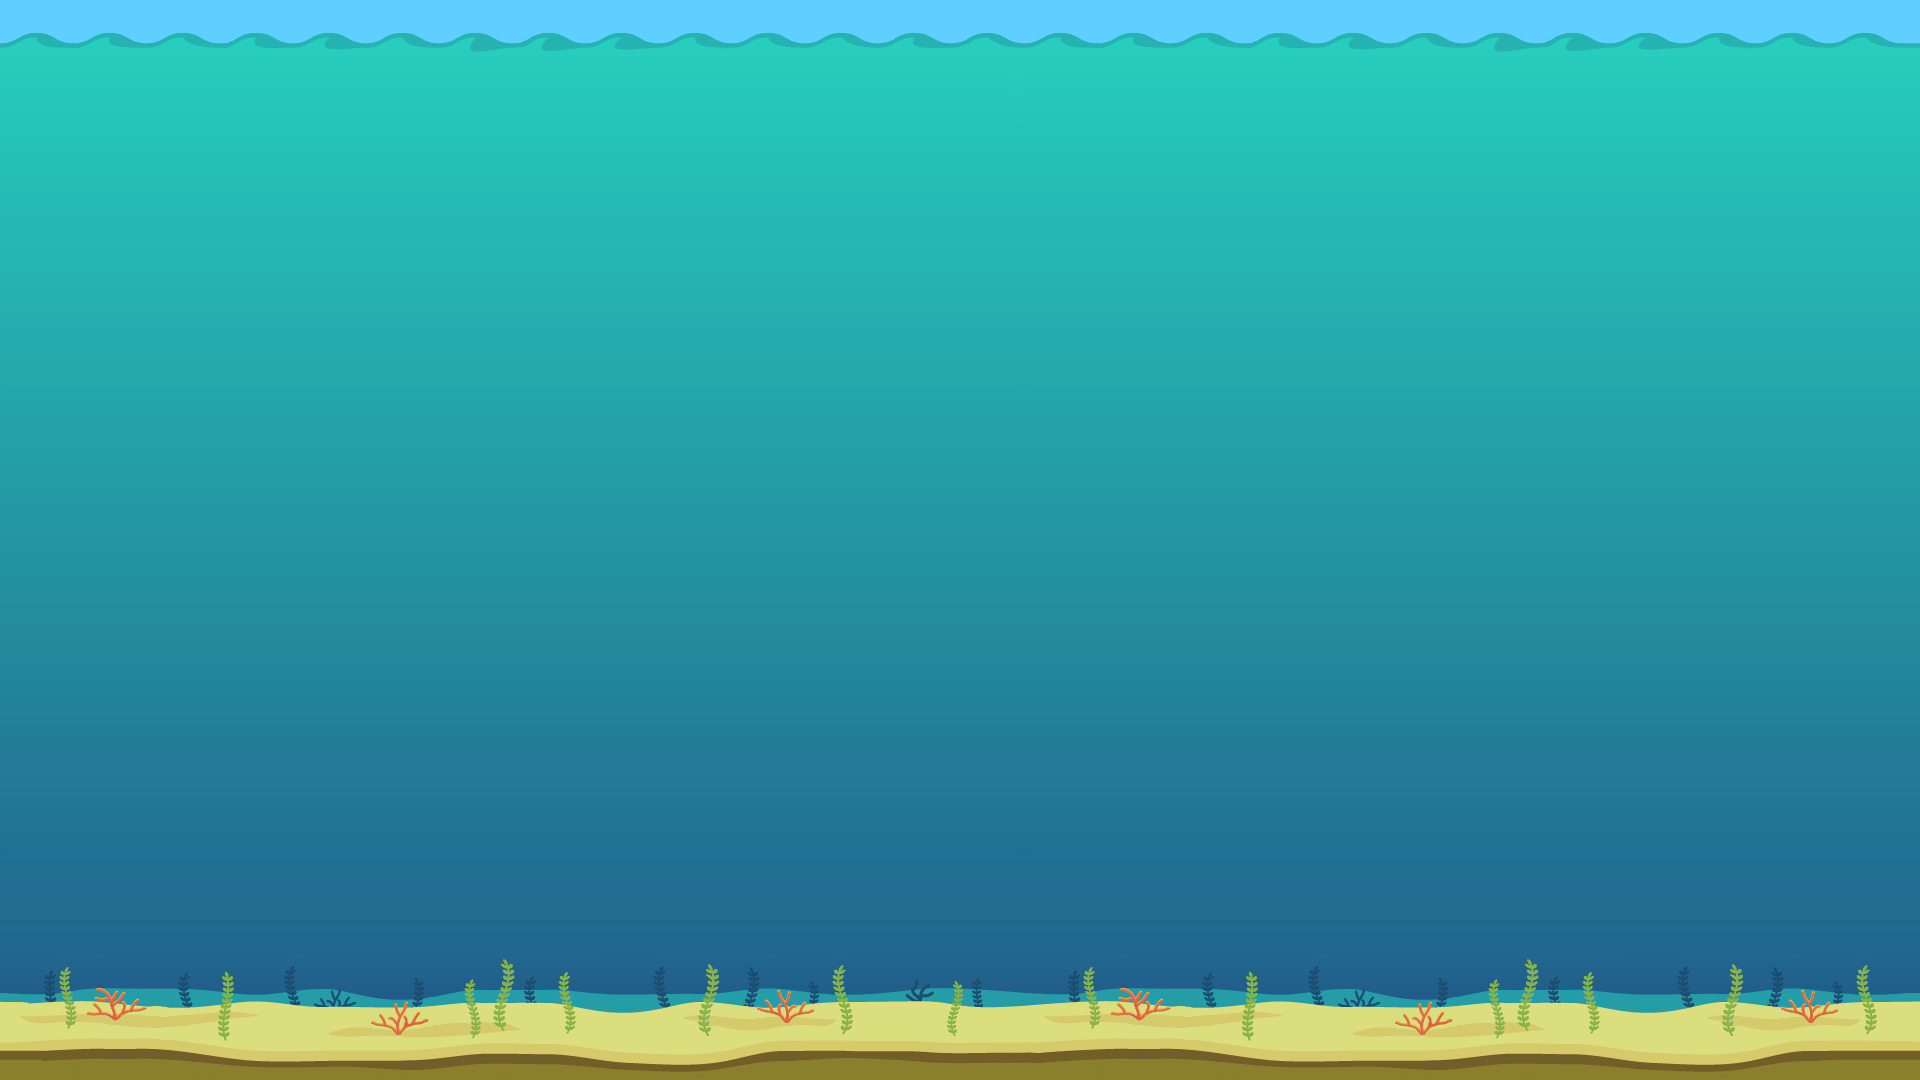
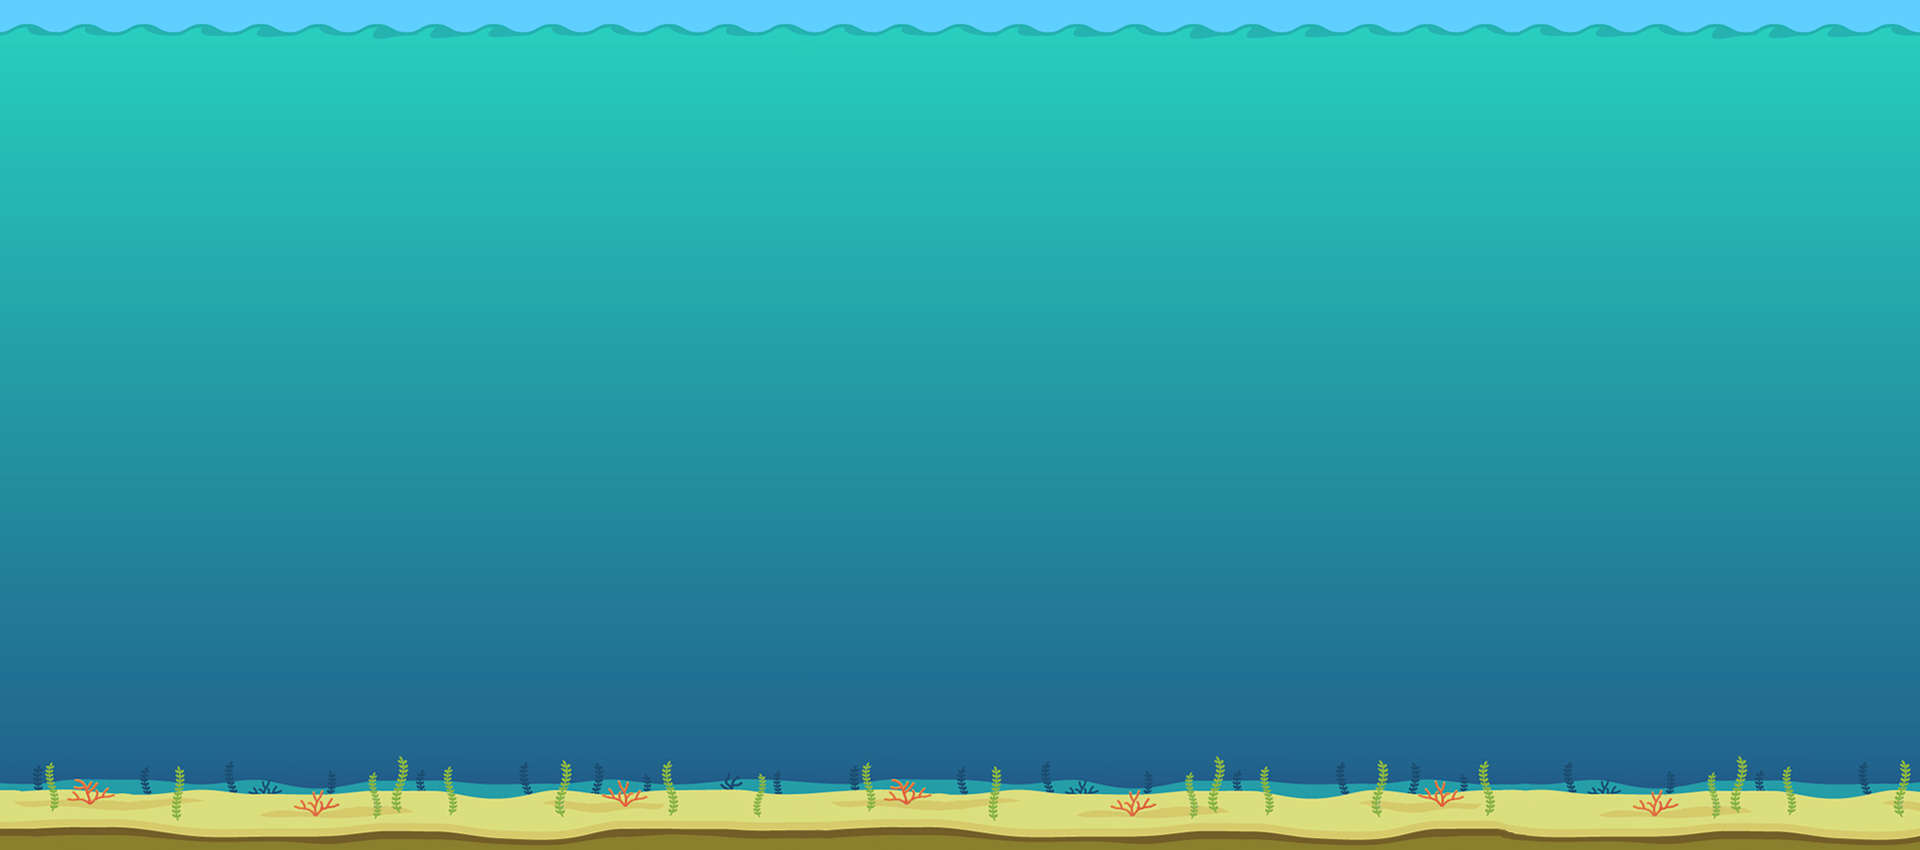
1

diff --git a/DVIproyecto/js/Game.js b/DVIproyecto/js/Game.js
@@ -56,7 +56,7 @@ export default class Game extends Phaser.Scene {
   }
 
   create() {
-  	this.add.image(960, 540, 'background');
+  	this.add.image(960, 425, 'background');
     this.add.image(100, 100, 'life');
     this.add.image(500, 100, 'score');
     this.add.image(900, 100, 'bullet');
@@ -198,11 +198,11 @@ export default class Game extends Phaser.Scene {
     this.cubogroup = this.add.group();
 
      for (var i = 0; i < 7; i++){
-       this.SmallFish = new SmallFish(this, this.game.config.width, 300+Math.random()*700);
+       this.SmallFish = new SmallFish(this, this.game.config.width, 230+Math.random()*700);
        this.smallgroup.add(this.SmallFish);
      };
      for (var i = 0; i < 2; i++){
-       this.BigFish = new BigFish(this, this.game.config.width, 300+Math.random()*700);
+       this.BigFish = new BigFish(this, this.game.config.width, 230+Math.random()*700);
        this.biggroup.add(this.BigFish);
      };
 
@@ -232,14 +232,14 @@ export default class Game extends Phaser.Scene {
     this.cont++;
     // Genera pecesitos
     if(this.cont % 35 == 0){
-      this.SmallFish = new SmallFish(this, this.game.config.width, 300+Math.random()*700);
+      this.SmallFish = new SmallFish(this, this.game.config.width, 230+Math.random()*700);
       this.smallgroup.add(this.SmallFish);
     }
     // Genera peces grandes
     if(this.cont % 45 == 0){
       var j = Math.random();
       if(j < 0.3){
-        this.BigFish = new BigFish(this, this.game.config.width, 300+Math.random()*700);
+        this.BigFish = new BigFish(this, this.game.config.width, 230+Math.random()*700);
         this.biggroup.add(this.BigFish);
       }
     }
@@ -247,7 +247,7 @@ export default class Game extends Phaser.Scene {
     if(this.cont % 190 == 0){
       var j = Math.random();
       if(j < 0.3){
-        this.Minas = new Minas(this, Math.random()*this.game.config.width, 300+Math.random()*700);
+        this.Minas = new Minas(this, Math.random()*this.game.config.width, 230+Math.random()*700);
         this.Mingroup.add(this.Minas);
       }
     }
@@ -255,7 +255,7 @@ export default class Game extends Phaser.Scene {
     if(this.cont % 240 == 0){
       var j = Math.random();
       if(j < 0.3){
-        this.Submarino = new Submarino(this, this.game.config.width, 300+Math.random()*700);
+        this.Submarino = new Submarino(this, this.game.config.width, 230+Math.random()*700);
         this.subgroup.add(this.Submarino);
       }
     }
@@ -273,19 +273,19 @@ export default class Game extends Phaser.Scene {
       if(j < 0.3){
         var i = Math.random()*5;
         if(i < 1){
-          this.accesorio = new Vida(this, this.game.config.width, 300+Math.random()*700);
+          this.accesorio = new Vida(this, this.game.config.width, 230+Math.random()*700);
         }
         else if(i >= 1 && i < 2){
-          this.accesorio = new Balas(this, this.game.config.width, 300+Math.random()*700);
+          this.accesorio = new Balas(this, this.game.config.width, 230+Math.random()*700);
         }
         else if(i >= 2 && i < 3){
-          this.accesorio = new Bomba(this, this.game.config.width, 300+Math.random()*700);
+          this.accesorio = new Bomba(this, this.game.config.width, 230+Math.random()*700);
         }
         else if(i >= 3 && i < 4){
-          this.accesorio = new PezVeneno(this, this.game.config.width, 300+Math.random()*700);
+          this.accesorio = new PezVeneno(this, this.game.config.width, 230+Math.random()*700);
         }
         else{
-          this.accesorio = new Meat(this, this.game.config.width, 300+Math.random()*700);
+          this.accesorio = new Meat(this, this.game.config.width, 230+Math.random()*700);
         }
       }
     }
@@ -350,7 +350,7 @@ export default class Game extends Phaser.Scene {
       }
     }  
 
-    if((this.player.getNumlife() <= 0) && (this.player.y) > 975){
+    if((this.player.getNumlife() <= 0) && (this.player.y) > 770){
       this.scene.launch('termenu');
       this.scene.stop('playgame');
     }

diff --git a/DVIproyecto/index.html b/DVIproyecto/index.html
@@ -5,16 +5,17 @@
     <meta charset="UTF-8">
     <link rel="shortcut icon" href="assets/images/gamelogo-sheet0.png" type="image/png" />
     <meta name="viewport" content="width=device-width, initial-scale=2.0">
-    <link rel="stylesheet" href="js/game.css">
+    <link rel="stylesheet" href="./js/game.css">
     <link rel="stylesheet" href="https://www.w3schools.com/w3css/4/w3.css">
     <script src="js/phaser.min.js"></script>
+    <script type="module" src="js/firstpage.js"></script>
     <title>Underwater crisis</title>
 </head>
 
 <body>
     <div class="w3-top">
-      <div class="w3-bar w3-white w3-wide w3-padding w3-card">
-        <a href="#home" class="w3-bar-item w3-button"><b>Underwater crisis</b></a>
+      <div class="w3-bar w3-white w3-padding w3-wide w3-card">
+        <a href="#game" class="w3-bar-item w3-button"><b>Underwater crisis</b></a>
         <!-- Float links to the right. Hide them on small screens -->
         <div class="w3-right w3-hide-small">
           <a href="#description" class="w3-bar-item w3-button">Description</a>
@@ -24,11 +25,20 @@
       </div>
     </div>
     
-    <div class="w3-content w3-padding" style="max-width:1564px">
-      <div class="w3-container w3-panel w3-padding-16 w3-card-2" id="home"></div>
-      
+    <div class="w3-padding">
+      <div class="w3-centered w3-padding-16" id="ourgame">
+        <script>document.getElementById('ourgame').focus();</script>
       </div>
 
+      <div class="w3-container w3-panel w3-padding-16 w3-card-2" id="description">
+        <h3 class="w3-border-bottom w3-border-light-grey w3-padding-16">Description</h3>
+        <p>Es un juego inspirado en el juego "Feeding".
+          UNDERWATER CRISIS es un juego en el que los jugadores desempeñan el papel de tiburón.
+          Al comer bancos de peces, conseguirá puntos, pero ¡cuidado! hay peces venenosos.
+          También aparecerán submarinos y bombas en el océano, son una amenaza para los jugadores. 
+        </p>
+      </div>
+      
       <div class="w3-container w3-panel w3-padding-16 w3-card-2" id="description">
         <h3 class="w3-border-bottom w3-border-light-grey w3-padding-16">Description</h3>
         <p>Es un juego inspirado en el juego "Feeding".
@@ -53,13 +63,8 @@
           <a href="https://github.com/ZHAOYANNI" class="w3-hover-text-green">Zhaoyan Ni</a>
         </p>
       </div>
+      
     </div>
-
-  <!-- Footer -->
-  <footer class="w3-center w3-light-grey w3-padding-16">
-    <p>Powered by：UCM dvi grupo 9</p>
-  </footer>
-	
 </body>
 
 </html>

diff --git a/DVIproyecto/js/firstpage.js b/DVIproyecto/js/firstpage.js
@@ -1,0 +1,31 @@
+import Game from './Game.js';
+import Menu from './Menu.js';
+import TerMenu from './TerMenu.js';
+import sceneSTOP from './sceneSTOP.js';
+
+var config = {
+    type: Phaser.AUTO,
+    width: 1900,
+    height: 850,
+    pixelArt: true,
+    parent: 'ourgame',
+    input: {
+        gamepad: true
+    },
+    
+    scale: {
+        mode: Phaser.Scale.FIT,
+        autoCenter: Phaser.Scale.CENTER_BOTH
+    },
+    scene: [ Menu, Game, TerMenu, sceneSTOP],
+              physics: { 
+                  default: 'arcade', 
+                  arcade: { 
+                      gravity: { 
+                         // y: 400 
+                      }, 
+                      debug: false 
+                  }
+              }
+};
+new Phaser.Game(config);

diff --git a/DVIproyecto/js/TerMenu.js b/DVIproyecto/js/TerMenu.js
@@ -12,8 +12,8 @@ export default class TerMenu extends Phaser.Scene {
 
 	create() {
 		this.add.image(960, 540, 'backg');
-		this.replayButton = this.add.sprite(750, 800, 'replay').setInteractive();
-		this.quitButton = this.add.sprite(1150, 800, 'quit').setInteractive();
+		this.replayButton = this.add.sprite(750, 720, 'replay').setInteractive();
+		this.quitButton = this.add.sprite(1150, 720, 'quit').setInteractive();
 		
 	    this.replayButton.on('pointerdown', function(){
 	    	this.scene.scene.start('playgame');

diff --git a/DVIproyecto/js/Menu.js b/DVIproyecto/js/Menu.js
@@ -11,7 +11,7 @@ export default class Menu extends Phaser.Scene {
 
 	create() {
 	  	this.add.image(960, 540, 'preloaderBackground');
-		this.playButton = this.add.sprite(950, 900, 'button').setInteractive();
+		this.playButton = this.add.sprite(950, 715, 'button').setInteractive();
 		
 		this.playButton.on('pointerover', function(){
 	    	this.setFrame(1);
